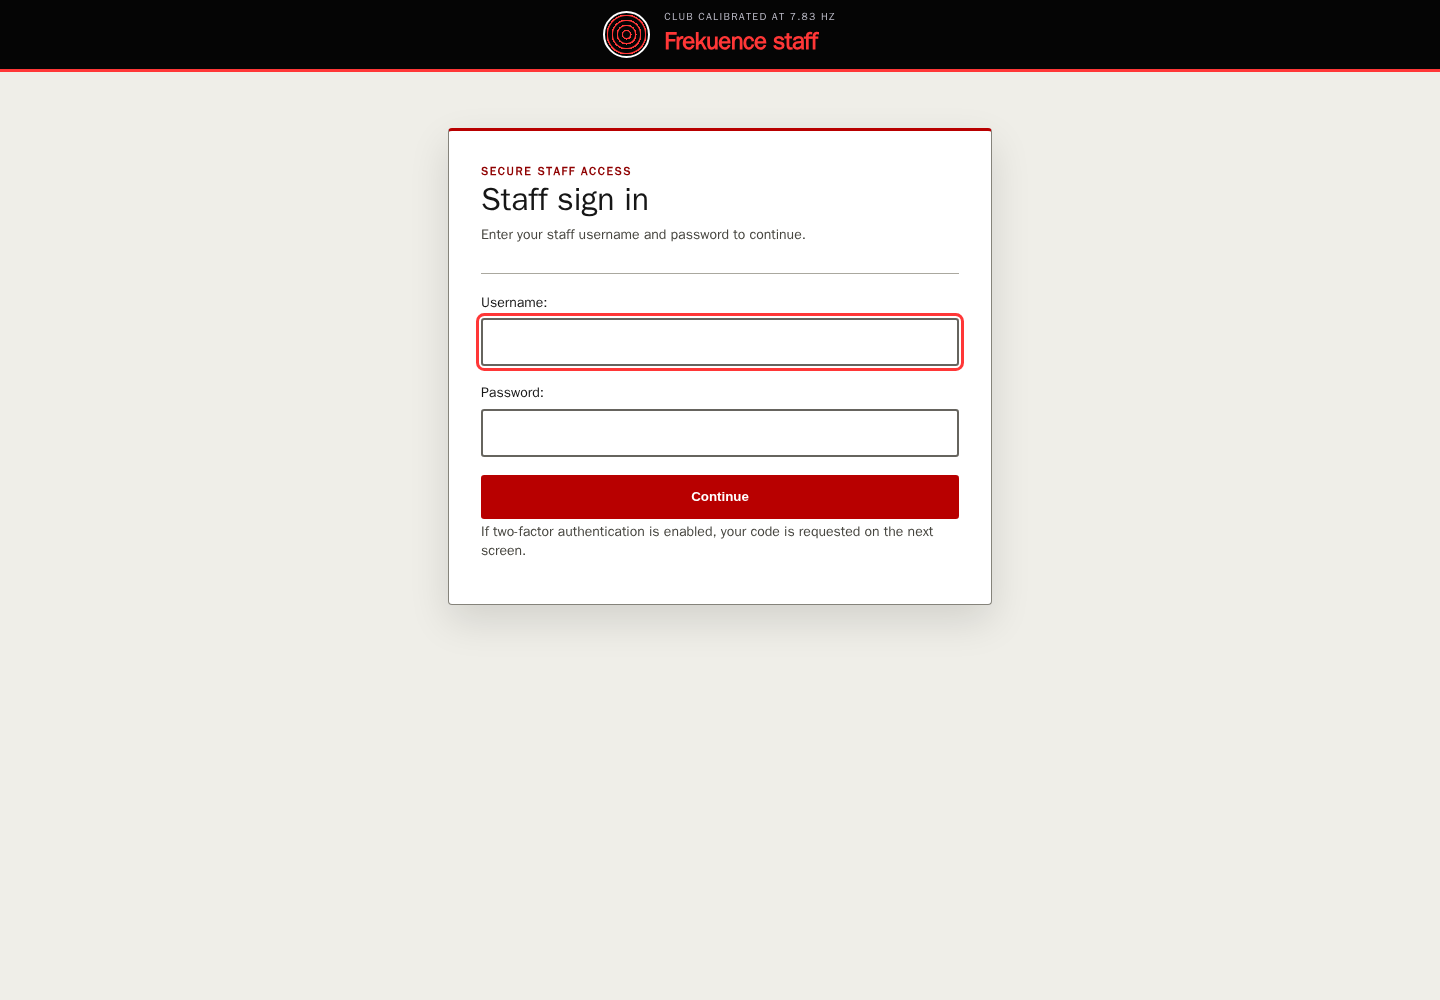
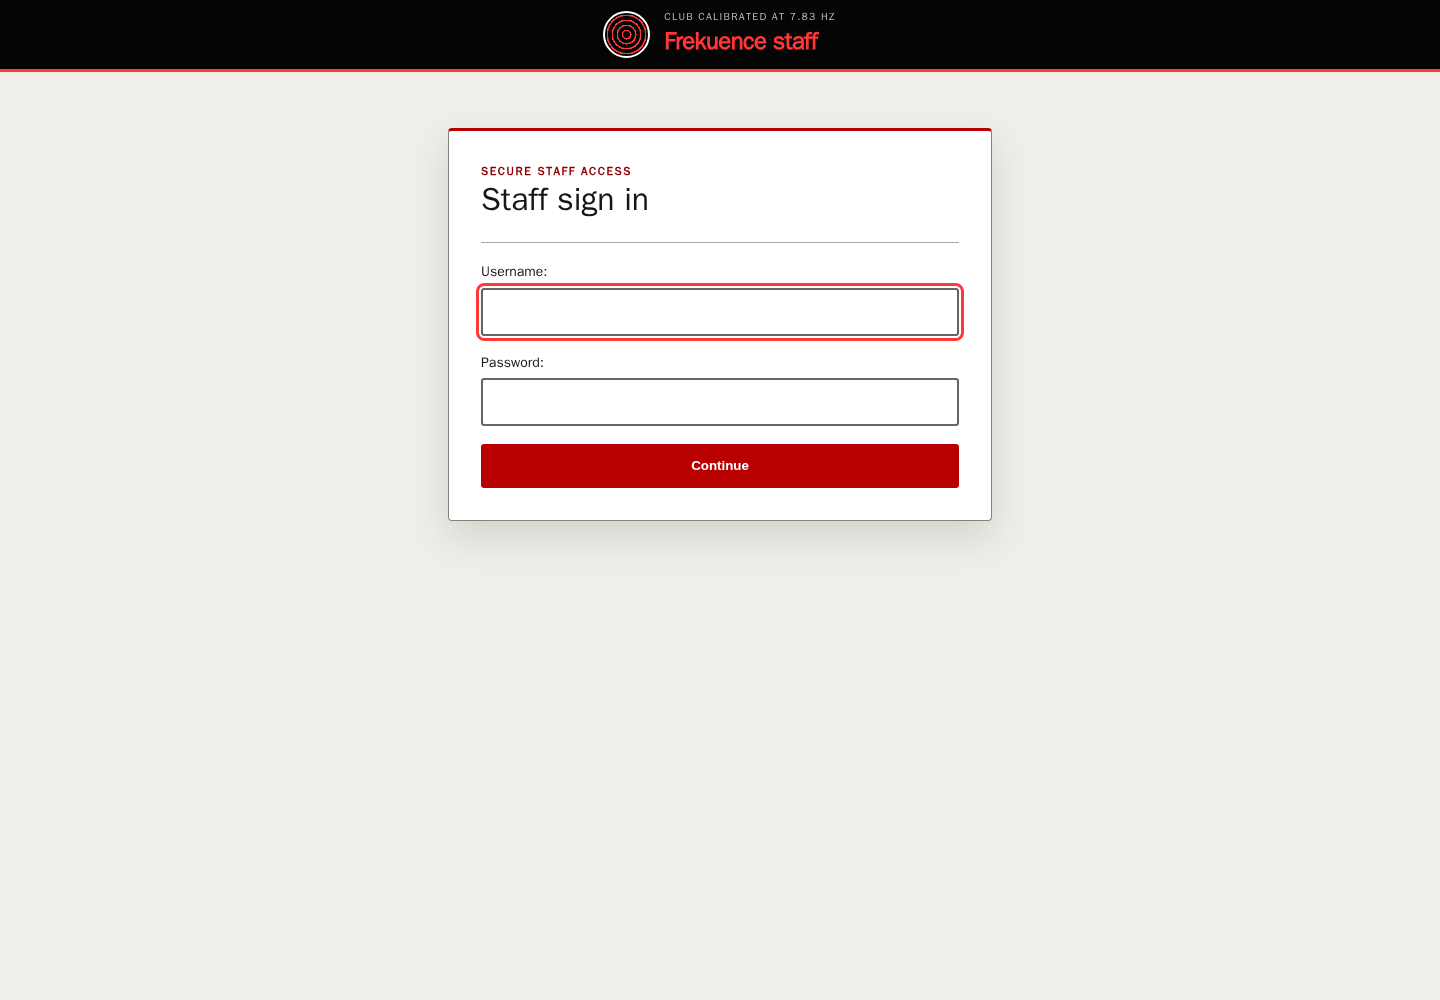
fix(staff): refine authentication interface

Changed region(s): [[0.3125, 0.217, 0.6875, 0.589]]

diff --git a/services/backend/events/static/events/admin.css b/services/backend/events/static/events/admin.css
@@ -82,6 +82,10 @@
   color: #161616;
 }
 
+#content-related .module {
+  margin-bottom: 0;
+}
+
 #content-related h2,
 #content-related h3,
 #content-related p,
@@ -144,13 +148,19 @@ input[type='button'],
 }
 
 .staff-button--primary,
-.staff-button--danger {
+.staff-button--primary:link,
+.staff-button--primary:visited,
+.staff-button--danger,
+.staff-button--danger:link,
+.staff-button--danger:visited {
   background: #b80000;
   color: #fff;
 }
 
 .staff-button--primary:hover,
-.staff-button--danger:hover {
+.staff-button--primary:focus,
+.staff-button--danger:hover,
+.staff-button--danger:focus {
   background: #760000;
   color: #fff;
 }
@@ -248,8 +258,7 @@ input[type='submit']:focus-visible {
   line-height: 1.1;
 }
 
-.staff-auth__intro p,
-.staff-auth__note {
+.staff-auth__intro p {
   color: #46453f;
 }
 

diff --git a/services/backend/templates/staff_access/login_password.html b/services/backend/templates/staff_access/login_password.html
@@ -7,5 +7,4 @@
   {% if next %}<input type="hidden" name="next" value="{{ next }}">{% endif %}
   <button type="submit" class="staff-button staff-button--primary">Continue</button>
 </form>
-<p class="staff-auth__note">If two-factor authentication is enabled, your code is requested on the next screen.</p>
 {% endblock %}

diff --git a/services/backend/tests/test_staff_access.py b/services/backend/tests/test_staff_access.py
@@ -195,6 +195,8 @@ class StaffLoginFlowTests(TestCase):
         password_page = self.client.get(reverse("frekuence_staff:login"), secure=True)
         self.assertContains(password_page, 'name="password"')
         self.assertNotContains(password_page, 'name="otp_token"')
+        self.assertNotContains(password_page, "Enter your staff username and password to continue.")
+        self.assertNotContains(password_page, "If two-factor authentication is enabled")
 
         TOTPDevice.objects.create(user=self.user, name="Authenticator", confirmed=True)
         self.client.post(

diff --git a/services/backend/staff_access/site.py b/services/backend/staff_access/site.py
@@ -132,7 +132,6 @@ class FrekuenceStaffAdminSite(OTPAdminSite):
         context = self._context(
             request,
             title="Staff sign in",
-            subtitle="Enter your staff username and password to continue.",
             form=form,
             next=request.GET.get("next", request.POST.get("next", "")),
             **(extra_context or {}),

diff --git a/docs/VALIDATION_REPORT.md b/docs/VALIDATION_REPORT.md
@@ -36,27 +36,28 @@ topology, production content, or Phase 2 checkpoint history.
 
 ## Interface review evidence
 
-Six captures under [`docs/review/staff-access/`](review/staff-access/README.md) cover the password
-screen, separate OTP screen, staff dashboard, single-role account form, event list, and event editor
-at 1440 × 1000 or practical-laptop widths. The pinned Playwright capture ran Axe against WCAG
-2/2.1/2.2 A/AA rules and checked every captured page for horizontal overflow. The review corrected
-low-contrast Django dashboard/recent-action states, unclear form controls, small action targets,
-missing accessible names on split date/time inputs, and ambiguous extra Save actions on one-time
-account provisioning. The final capture had no Axe violation or page-level overflow.
+Seven captures under [`docs/review/staff-access/`](review/staff-access/README.md) cover the password
+screen, separate OTP screen, staff dashboard, account-security state, single-role account form,
+event list, and event editor at 1440 × 1000 or practical-laptop widths. The pinned Playwright
+capture ran Axe against WCAG 2/2.1/2.2 A/AA rules and checked every captured page for horizontal
+overflow. The review corrected low-contrast Django dashboard/recent-action states, excess Recent
+Actions panel height, the normal-state 2FA action contrast, unclear form controls, small action
+targets, missing accessible names on split date/time inputs, and ambiguous extra Save actions on
+one-time account provisioning. The final capture had no Axe violation or page-level overflow.
 
 ## Commands actually run
 
 | Command                                                          | Result                                                                                                                                                                                                                                                     |
 | ---------------------------------------------------------------- | ---------------------------------------------------------------------------------------------------------------------------------------------------------------------------------------------------------------------------------------------------------- |
 | Focused staff/event authorization suite                          | Passed: 41/41 tests covering role mappings, provisioning, promotion, deactivation, target scoping, draft/public event boundaries, login, TOTP, CSRF, and recovery                                                                                          |
-| `docker compose --profile tools run --rm --build backend-check`  | Passed on the final role hierarchy: Ruff formatting and lint, Django checks and deployment checks, two new migration leaves with no model drift, 94/94 tests in 22.836 seconds, and `pip-audit` with no known vulnerabilities                              |
+| `docker compose --profile tools run --rm --build backend-check`  | Passed after the final staff UI adjustments: Ruff formatting and lint, Django checks and deployment checks, two new migration leaves with no model drift, 94/94 tests in 22.105 seconds, and `pip-audit` with no known vulnerabilities                     |
 | `npm run build`                                                  | Passed: formatting/lint, 14/14 architecture tests, 22/22 frontend unit tests, 0 Astro errors/warnings/hints across 61 files, Astro Node build, and 8-route/59-file production-output validation                                                            |
 | Final `npm run check`                                            | Passed after documentation formatting: formatting/lint, 14/14 architecture tests, 22/22 frontend unit tests, and 0 Astro errors, warnings, or hints across 61 files                                                                                        |
 | `docker compose --profile tools run --rm --build frontend-check` | Passed: formatting/lint, 14/14 architecture tests, 22/22 frontend unit tests, 0 Astro diagnostics across 61 files, 8-route/59-file production validation, and 72/72 browser/integration/accessibility tests; 38 opt-in visual captures skipped as designed |
 | `npm run smoke:production-integration`                           | Passed: explicit production migrations, published synthetic-event rendering through Astro, sitemap/detail coverage, empty optional event fields, and the required direct-Django HTTP-to-HTTPS redirect                                                     |
 | `npm run smoke:production-topology`                              | Passed: pinned Nginx validation, explicit migration/static jobs, gateway/public/API/staff/static/media/security checks, sanitized Axes client isolation, four healthy services, and database/media/static persistence across normal recreation             |
 | Final `npm run smoke:integrated-qa`                              | Passed with the role migrations: full isolated gateway verification plus matched backup and isolated restoration retained staff authorization, TOTP devices, published/draft boundaries, API/public routes, derivatives, and 404s                          |
-| Staff visual capture workflow                                    | Passed: six captures generated against the Dockerized backend; Axe WCAG A/AA scan and horizontal-overflow checks reported no violations                                                                                                                    |
+| Staff visual capture workflow                                    | Passed: seven captures generated against the Dockerized backend; explicit Recent Actions sizing and 2FA resolved-color assertions, Axe WCAG A/AA scans, and horizontal-overflow checks all passed                                                          |
 | `docker compose config --quiet`                                  | Passed: the Compose model resolved successfully without a topology change                                                                                                                                                                                  |
 | Final `git diff --check`                                         | Passed with no whitespace errors after documentation formatting                                                                                                                                                                                            |
 

diff --git a/docs/review/staff-access/README.md b/docs/review/staff-access/README.md
@@ -8,13 +8,15 @@ real event is published, and no QR enrollment secret or password is captured.
 - `staff-otp-1440x1000.png`: separate authenticator step shown only for an account with TOTP
   enabled.
 - `staff-dashboard-1440x1000.png`: authenticated Django Admin dashboard with corrected module and
-  recent-action contrast.
+  content-sized Recent Actions panel.
+- `staff-security-1440x1000.png`: account-security state with a high-contrast 2FA action.
 - `staff-account-role-1024x900.png`: superuser account creation with the single bounded Access role
   selector and concise role descriptions.
 - `staff-events-1440x1000.png`: the focused event list at desktop width.
 - `staff-event-edit-1024x768.png`: practical-laptop event editor layout.
 
 The capture tool checks each page for page-level horizontal overflow and runs Axe against WCAG
-2/2.1/2.2 A/AA rules. The screenshots are supporting evidence only; backend authentication,
-authorization, invitation, recovery, CSRF, and TOTP behavior is covered by the Dockerized Django
-test suite.
+2/2.1/2.2 A/AA rules. It also verifies that the Recent Actions panel fits its module and that the
+2FA action resolves to white text on the intended red background. The screenshots are supporting
+evidence only; backend authentication, authorization, invitation, recovery, CSRF, and TOTP
+behavior is covered by the Dockerized Django test suite.
